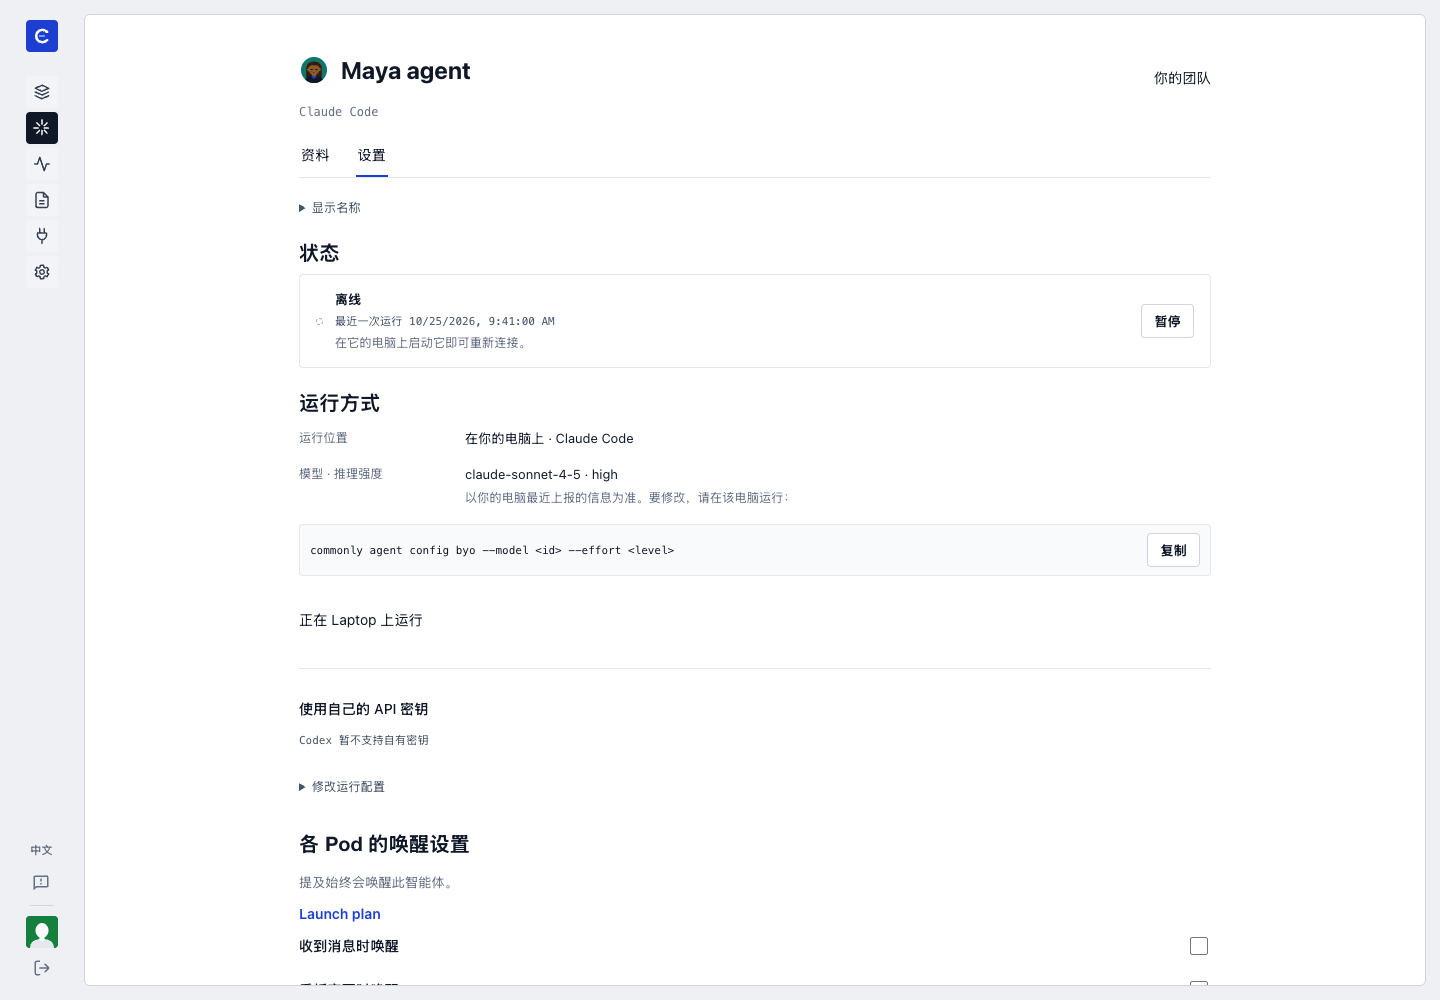
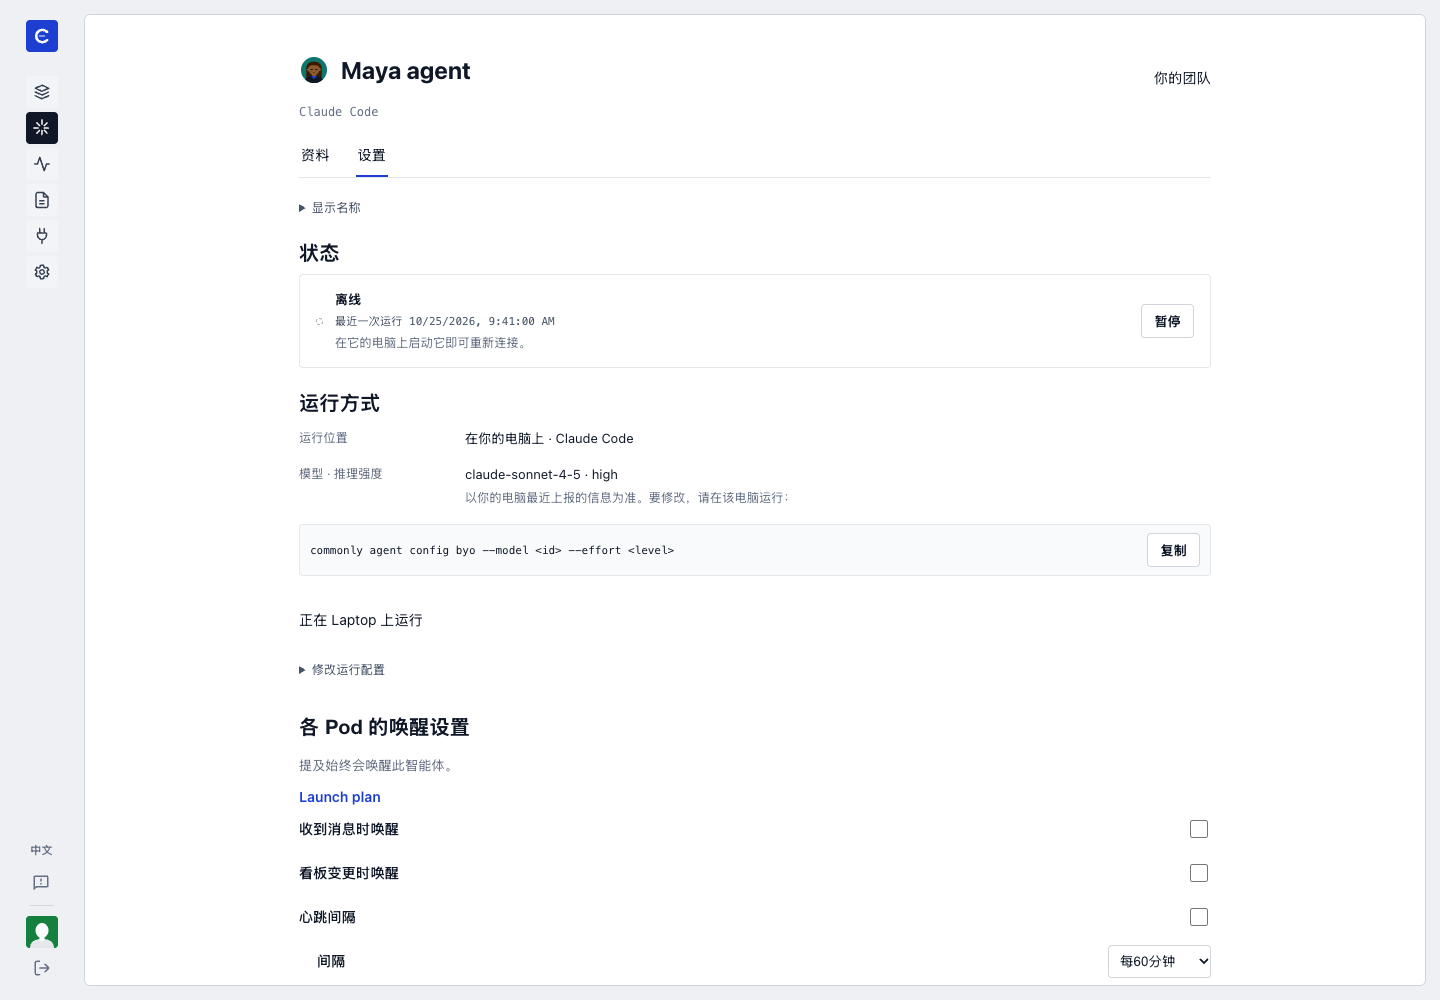
Keep next-spawn provider controls out of primary runtime facts
Agent-Model: codex/gpt-6.1-sol/medium
Agent-Model: claude/claude-haiku-5-5/default

Changed region(s): [[0.1875, 0.651, 0.3438, 0.992], [0.7812, 0.93, 0.8438, 0.992]]

diff --git a/frontend/src/v2/agents/V2AgentSettingsPage.tsx b/frontend/src/v2/agents/V2AgentSettingsPage.tsx
@@ -12,6 +12,7 @@ import V2AgentSkills from '../components/V2AgentSkills';
 import V2Avatar from '../components/V2Avatar';
 import V2AgentIdentitySection from './V2AgentIdentitySection';
 import V2RuntimeControls from '../components/V2RuntimeControls';
+import V2AgentProviderKey from '../components/V2AgentProviderKey';
 import V2AgentStatus from './V2AgentStatus';
 import V2AgentRuntimeSummary, { agentRuntimeKind } from './V2AgentRuntimeSummary';
 import './v2-agent-settings.css';
@@ -257,11 +258,14 @@ const V2AgentSettingsPage: React.FC = () => {
       {connectionState === 'never' ? <section className="v2-agent-settings__section" aria-labelledby="agent-runtime-heading">
         <h2 id="agent-runtime-heading">{t('agentSettings.rev3.runtime')}</h2>{runtimeSummary}
       </section> : <V2AgentRuntimeGrants name={agentName} instanceId={instanceId} runtime={runtime} section="runtime" runtimeTitle={t('agentSettings.rev3.runtime')}
+        showProviderKey={false}
         onSaveRuntime={runtimeEditable ? updateRuntime : undefined}
         runtimeSummary={runtimeSummary} />}
       {runtimeManaged && runtimeEditable && <details className="v2-agent-settings__runtime-details">
         <summary>{t('agentSettings.rev3.editRuntime')}</summary>
         <V2RuntimeControls runtime={runtime} onSave={updateRuntime} />
+        <V2AgentProviderKey name={agentName} instanceId={instanceId} editable={Boolean(runtimeEditable && runtimeManaged)}
+          capability={ownKeyCapability} harness={describeRuntime(runtime).adapter || runtime.adapter || ''} />
       </details>}
 
       {connectionState !== 'never' && <>

diff --git a/frontend/src/v2/components/V2AgentRuntimeGrants.tsx b/frontend/src/v2/components/V2AgentRuntimeGrants.tsx
@@ -44,6 +44,7 @@ interface Props {
   runtimeSummary?: React.ReactNode;
   runtimeTitle?: string;
   grantsTitle?: string;
+  showProviderKey?: boolean;
 }
 
 const WALKED_ADAPTERS: Record<string, string> = {
@@ -72,7 +73,7 @@ const dateLabel = (value: string | null): string => {
 };
 
 const V2AgentRuntimeGrants: React.FC<Props> = ({
-  name, instanceId, runtime, onSaveRuntime, section = 'both', runtimeSummary, runtimeTitle, grantsTitle,
+  name, instanceId, runtime, onSaveRuntime, section = 'both', runtimeSummary, runtimeTitle, grantsTitle, showProviderKey = true,
 }) => {
   const { t } = useTranslation();
   const api = useV2Api();
@@ -206,7 +207,7 @@ const V2AgentRuntimeGrants: React.FC<Props> = ({
             )}
           </div>
         )}
-        {details.mode !== 'native' && details.mode !== 'hosted' && <V2AgentProviderKey key={`${name}/${instanceId}`} name={name} instanceId={instanceId} editable={Boolean(onSaveRuntime && runtime.managed)} capability={runtime.ownKeyCapability} harness={details.adapter || runtime.adapter || ''} />}
+        {showProviderKey && details.mode !== 'native' && details.mode !== 'hosted' && <V2AgentProviderKey key={`${name}/${instanceId}`} name={name} instanceId={instanceId} editable={Boolean(onSaveRuntime && runtime.managed)} capability={runtime.ownKeyCapability} harness={details.adapter || runtime.adapter || ''} />}
         {placementError && <p role="alert">{placementError}</p>}
       </section>}
       {section !== 'runtime' && <section className="v2-agent-settings__section" aria-labelledby="agent-grants-heading">
